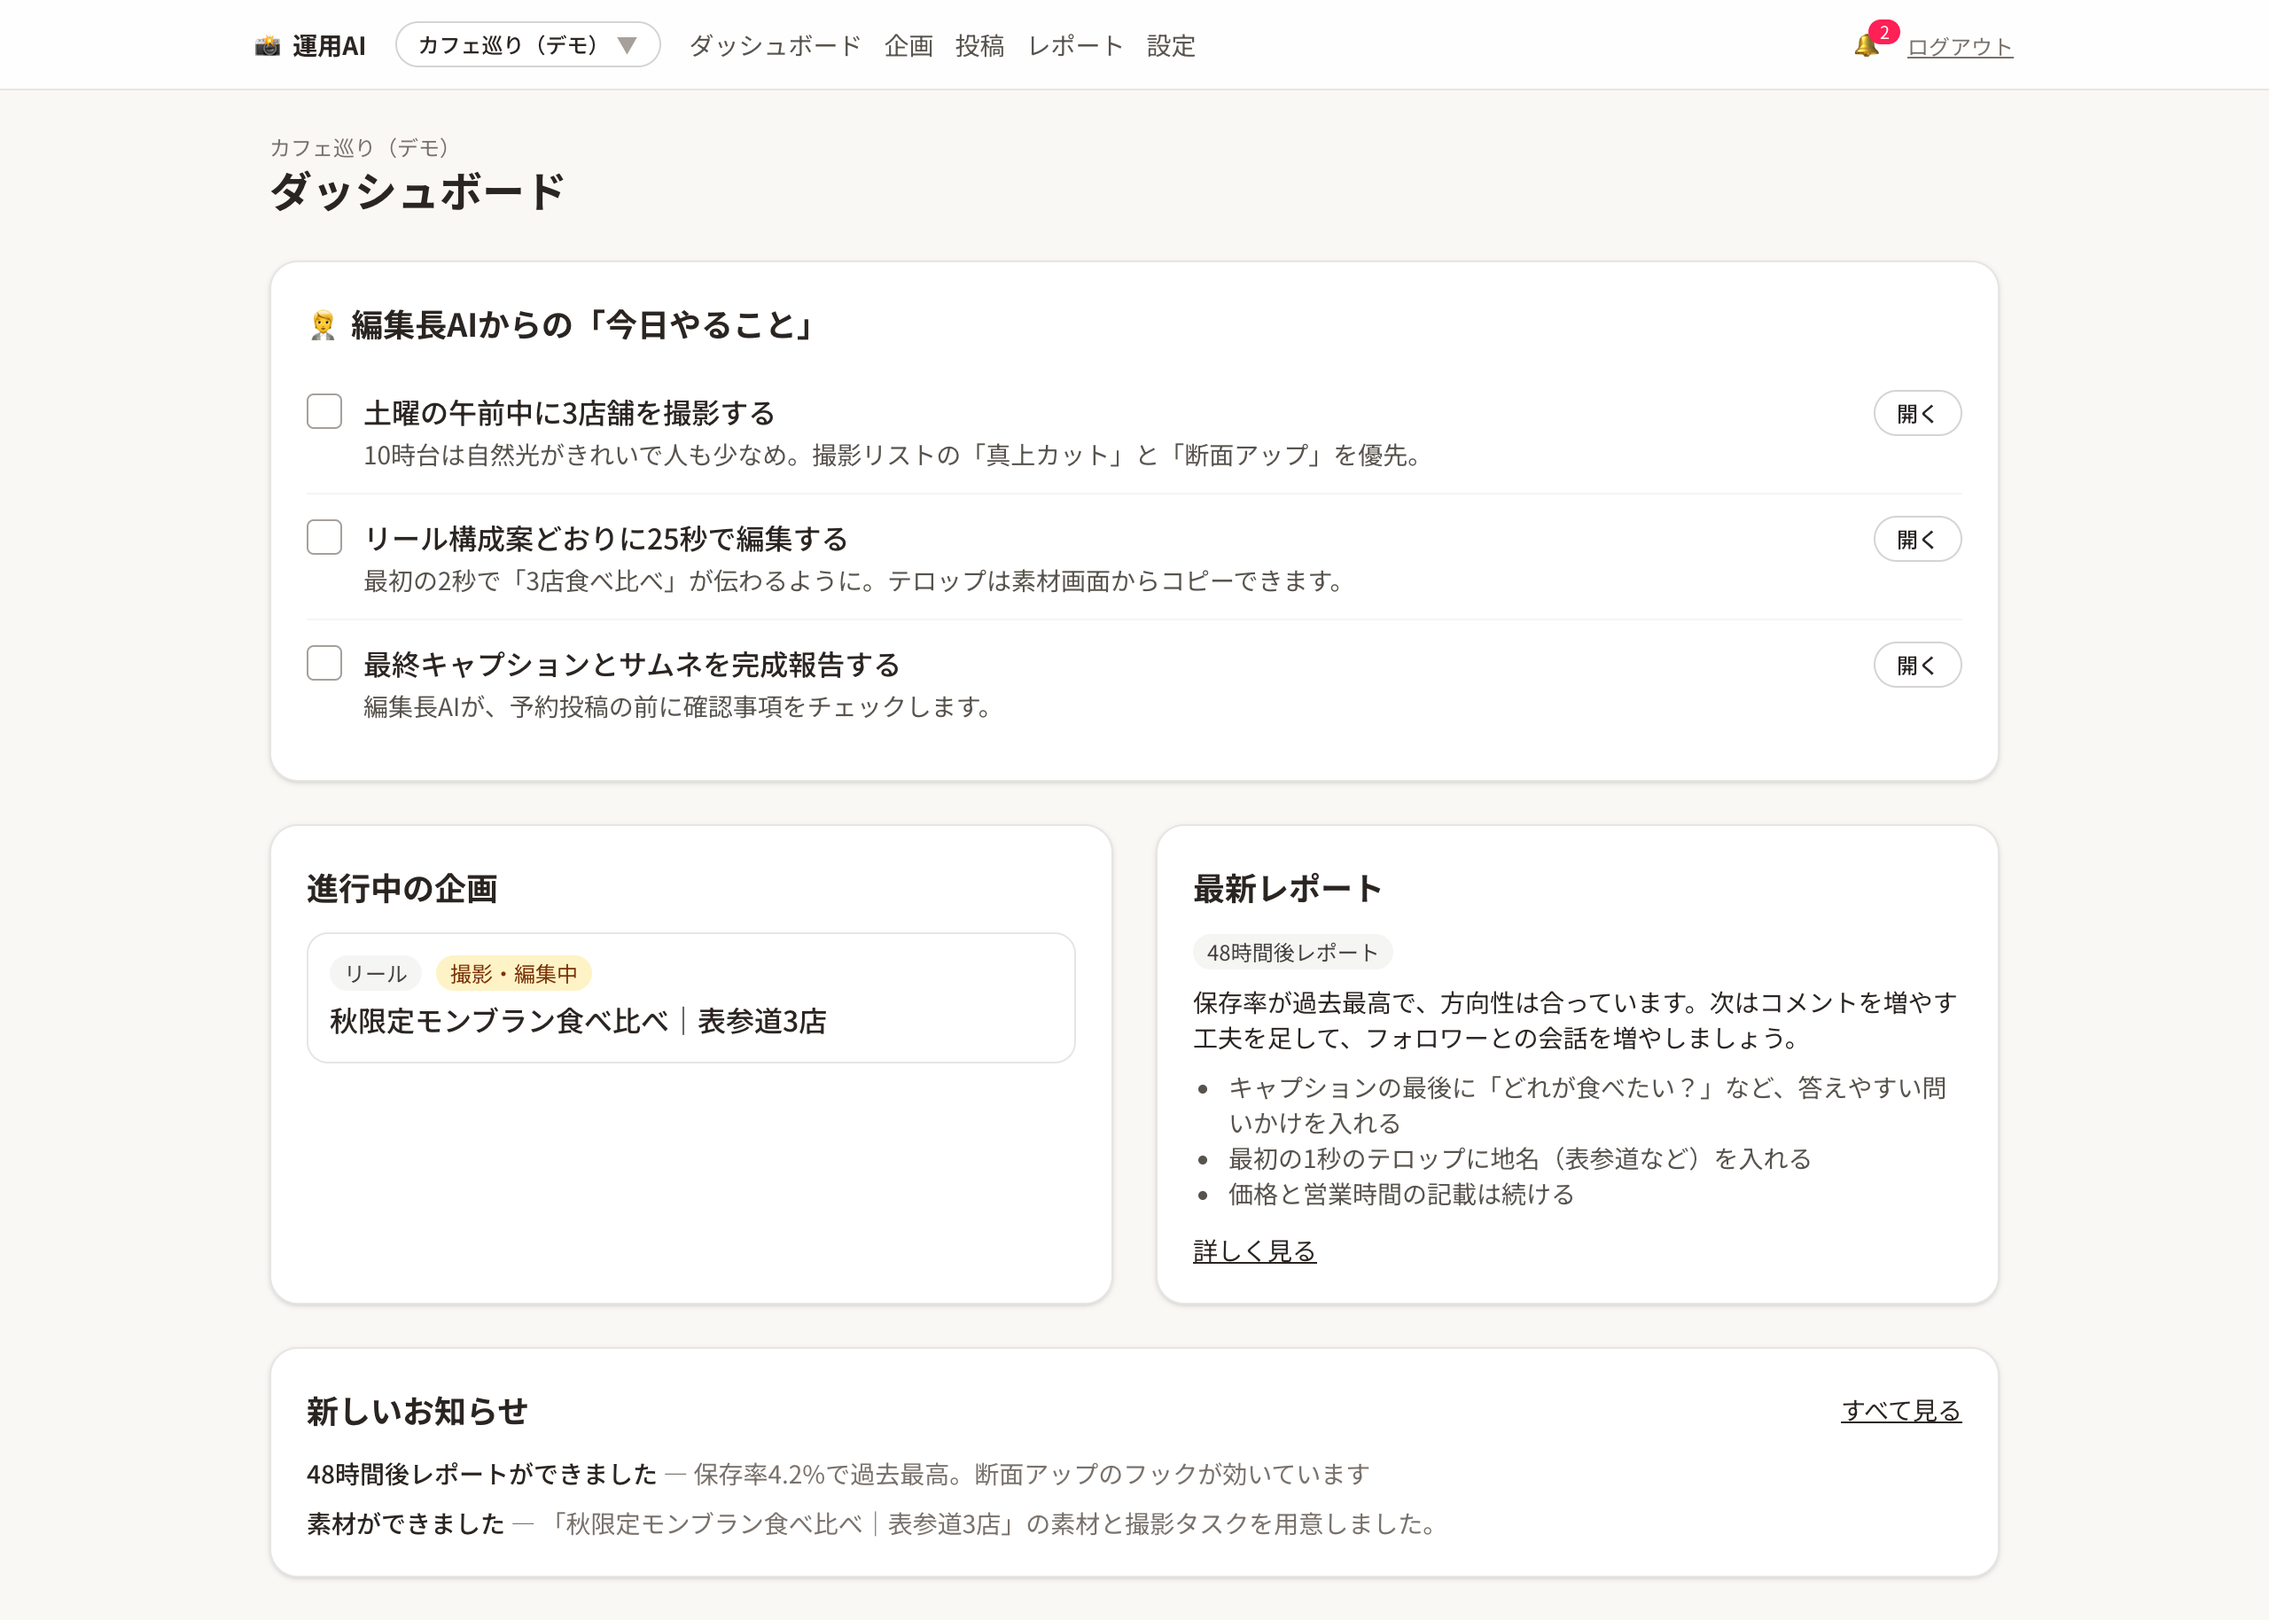
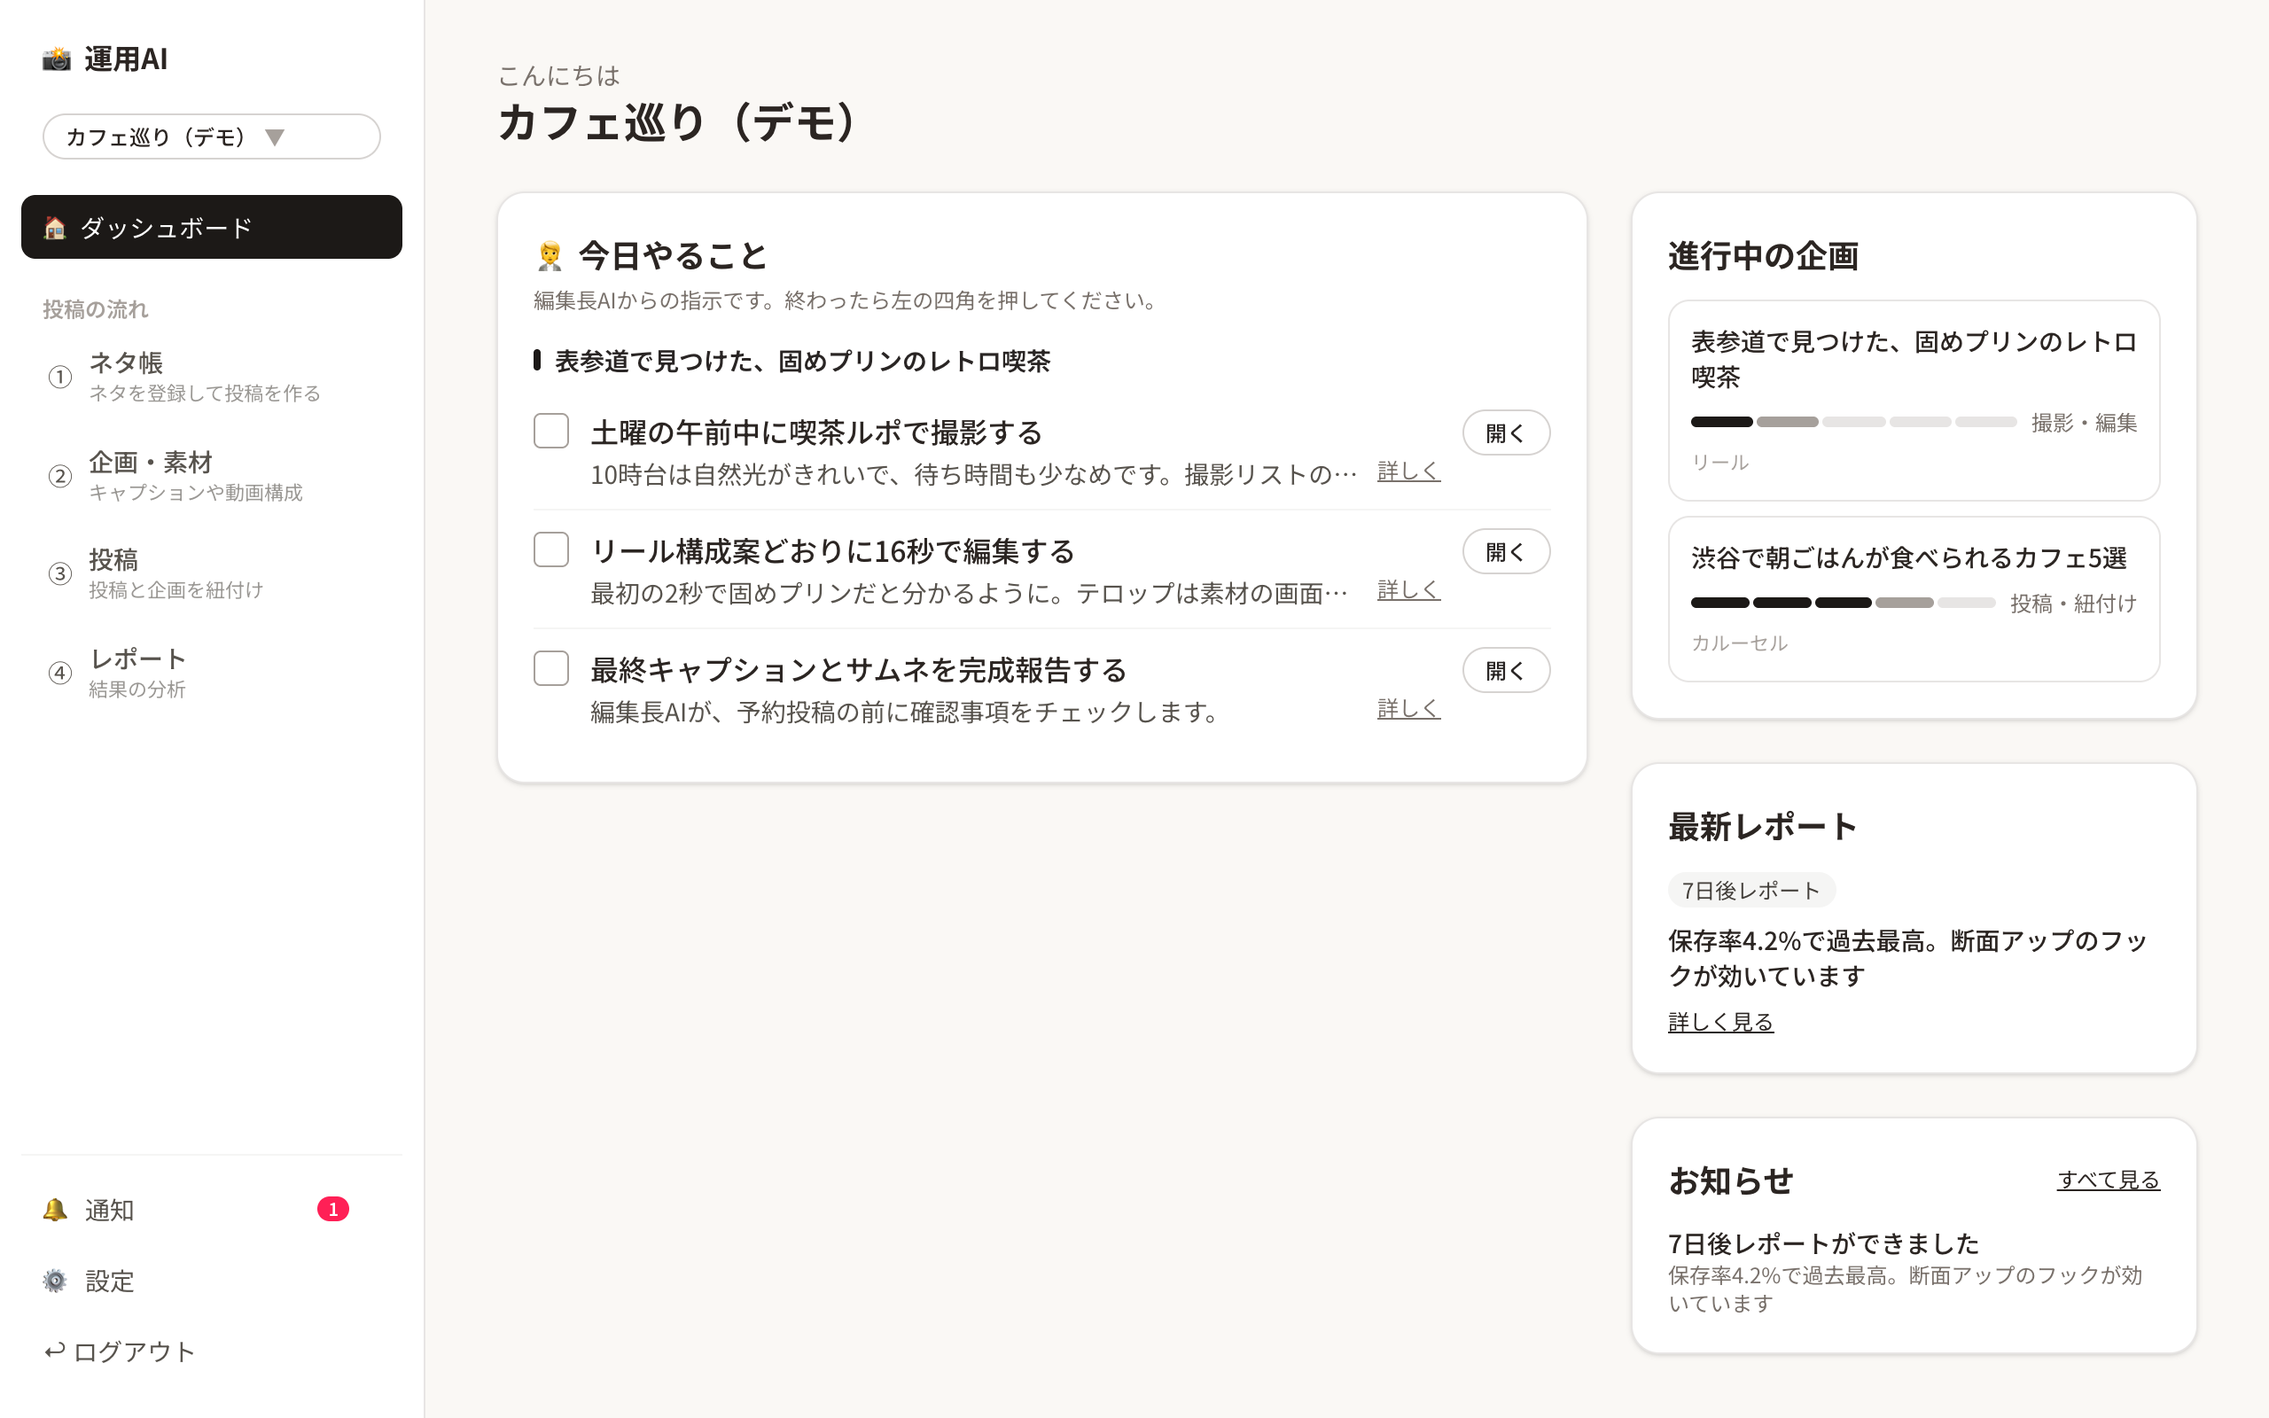
READMEのスクショを新しい画面で撮り直し、説明を今の機能に合わせる。スマホのログアウトが折り返す不具合を直す

diff --git a/src/components/Sidebar.tsx b/src/components/Sidebar.tsx
@@ -69,7 +69,7 @@ export function Sidebar({ account, accounts, unread }: Props) {
             🔔<Badge count={unread} />
           </NavLink>
           <form action="/auth/signout" method="post">
-            <SubmitButton className="flex items-center gap-1 text-xs text-stone-500 underline">ログアウト</SubmitButton>
+            <SubmitButton className="flex shrink-0 items-center gap-1 whitespace-nowrap text-xs text-stone-500 underline">ログアウト</SubmitButton>
           </form>
         </div>
         <nav className="flex gap-4 overflow-x-auto whitespace-nowrap px-4 pb-3 text-sm text-stone-600">

diff --git a/README.md b/README.md
@@ -1,21 +1,26 @@
 # 📸 Instagram運用AI
 
-役割を分けた **6つのAIエージェント（編集長・リサーチ・企画・投稿作成・動画構成・分析）** が、Instagram運用の「考える作業」を引き受けるWebアプリです。
-人間は **撮影・編集・投稿** に集中し、「企画 → 素材作成 → 投稿 → 分析 → 改善提案」のサイクルを毎回データに基づいて回せます。
+役割を分けた **5つのAIエージェント（編集長・企画・投稿作成・動画構成・分析）** が、Instagram運用の「考える作業」を引き受けるWebアプリです。
+人間は **お店に行ってネタを集め、撮影・編集・投稿** することに集中し、「ネタ → 素材作成 → 投稿 → 分析 → 次のネタの提案」のサイクルを毎回データに基づいて回せます。
 
 > 個人のグルメアカウント・旅行vlogアカウントの運用のために開発しています。
 
 ## スクリーンショット
 
-| ダッシュボード | 企画選択 |
+| ダッシュボード | ① ネタ帳 |
 | --- | --- |
-| ![ダッシュボード：編集長AIからの「今日やること」](docs/screenshots/dashboard.png) | ![企画選択：AIが提案した企画案3件](docs/screenshots/plans.png) |
-| 編集長AIが「今日やること」を具体的に指示 | リサーチ・競合分析・過去の改善案から企画案を3件提案 |
+| ![ダッシュボード：今日やることと進行中の企画](docs/screenshots/dashboard.png) | ![ネタ帳：登録したネタとAIからの提案](docs/screenshots/ideas.png) |
+| 編集長AIの「今日やること」を企画ごとに表示。進行中の企画は進み具合のバーで分かる | 行ったお店の事実をメモし、「このネタで投稿を作る」で投稿づくりを開始。分析をもとにAIが次のネタとアドバイスを提案 |
 
-| 投稿素材 | 分析レポート |
+| ② 企画一覧 | ② 投稿素材 |
 | --- | --- |
-| ![投稿素材：キャプション・ハッシュタグなど](docs/screenshots/materials.png) | ![分析レポート：改善案と次の提案](docs/screenshots/report.png) |
-| キャプション・ハッシュタグ・BGM候補・リール構成・テロップを生成。編集・再生成・コピーが可能 | 投稿48時間後・7日後・毎週、分析AIと編集長AIが改善案をまとめる |
+| ![企画一覧：進行中と投稿済みのタブ](docs/screenshots/plans.png) | ![投稿素材：キャプション・ハッシュタグなどをタブで切り替え](docs/screenshots/materials.png) |
+| 進行中・投稿済みをタブで分け、段階ごとの次の操作へ進める | キャプション・ハッシュタグ・リール構成・テロップ・BGMをタブで切り替え。編集・再生成・コピーが可能 |
+
+| ③ 投稿 | ④ 分析レポート |
+| --- | --- |
+| ![投稿：数値と企画との紐付け](docs/screenshots/posts.png) | ![分析レポート：良かった点・課題・改善案](docs/screenshots/report.png) |
+| Instagramから取得した投稿の数値を表示し、企画との紐付けを確定 | 投稿7日後・毎週、分析AIと編集長AIが「良かった点・課題・改善案」をまとめる |
 
 <p align="center">
   <img src="docs/screenshots/mobile.png" alt="スマホ表示" width="280"><br>
@@ -29,12 +34,13 @@
 | 機能 | 内容 |
 | --- | --- |
 | AIヒアリング | チャットでターゲット・地域・世界観などを聞き取り、「アカウント方針」として保存。すべてのAIがこの方針に沿って動く |
-| 企画提案 | リサーチAIが季節ネタ・トレンドを調べ、企画AIが投稿種類（リール／カルーセル／画像）付きで3案を提案 |
-| 投稿素材の生成 | キャプション、ハッシュタグ（大・中・小規模）、BGM候補（Instagram内音源／著作権フリーを区別）、秒単位のリール構成、撮影リスト、テロップ |
+| ネタ帳から投稿づくり | 行ったお店・撮った写真・感想を「ネタ」として登録。ネタを選ぶと、企画AIが分析の結果も読んで企画を作り、そのまま投稿素材まで作成 |
+| AIからの提案 | 競合分析と投稿レポートをもとに、次に撮りに行くと伸びそうなネタと、登録したネタへのアドバイスを提案（毎週月曜に自動更新） |
+| 投稿素材の生成 | ジャンル別のテンプレートに沿ったキャプション、ハッシュタグ（大・中・小規模）、BGM候補（Instagram内音源／著作権フリーを区別）、秒単位のリール構成、撮影リスト、テロップ |
 | 完成報告チェック | 最終キャプションとサムネ画像を送ると、編集長AIが画像も見て企画との整合をチェック |
 | Instagram連携 | 投稿・インサイトを毎日自動取得。新しい投稿を完成報告のキャプションと照合して、企画との紐付け候補を提示 |
 | 競合分析 | 競合アカウントの投稿を種類別に集計し、ジャンルに有効な投稿種類と頻度を分析 |
-| 自動レポート | 投稿48時間後・7日後・毎週月曜にレポートを自動作成し、アプリ内とメールで通知 |
+| 自動レポート | 投稿7日後と毎週月曜にレポートを自動作成し、アプリ内とメールで通知（週次は、数字がそろった投稿7〜14日後のものを比較） |
 | スクショ読み取り | Instagram連携が使えない時の保険として、インサイト画面のスクショから数値を読み取る |
 | 複数アカウント | 1つのログインで、ジャンルの違う複数アカウントを切り替えて運用 |
 
@@ -45,7 +51,7 @@
 | フロントエンド・サーバー | [Next.js 16](https://nextjs.org/)（App Router・Server Actions）、React 19、TypeScript |
 | スタイリング | Tailwind CSS v4 |
 | 認証・DB・ファイル保存 | [Supabase](https://supabase.com/)（Google ログイン、PostgreSQL、行レベルセキュリティ、Storage） |
-| AI | [Gemini API](https://ai.google.dev/)（`@google/genai`。構造化出力・画像読み取り・Google検索グラウンディング） |
+| AI | [Gemini API](https://ai.google.dev/)（`@google/genai`。構造化出力・画像読み取り） |
 | SNSデータ | Instagram API with Facebook Login（Graph API v25.0、Business Discovery） |
 | メール通知 | [Resend](https://resend.com/) |
 | ホスティング・定期実行 | [Vercel](https://vercel.com/)（Hobby、Cron Jobs） |
@@ -57,20 +63,23 @@
 - **構造化出力**：Geminiの JSON Schema 指定で、AIの出力をそのまま画面とDBで扱える形にしている
 - **マルチユーザー前提のデータ設計**：全テーブルに `user_id` を持たせ、RLSで本人のデータだけ読み書きできるようにしている
 - **秘密情報はサーバー側だけ**：InstagramのトークンはAES-256-GCMで暗号化して保存し、ブラウザに出さない
-- **止まりにくくする工夫**：AIの混雑時は自動リトライ＋軽量モデルへの切り替え、Google検索が使えない時は検索なしで続行、定期実行の失敗は記録して翌日に再実行
+- **止まりにくくする工夫**：AIの混雑時は自動リトライ＋軽量モデルへの切り替え、定期実行の失敗は記録して翌日に再実行
+- **想像で書かせない**：ネタ帳に書いた事実だけをもとにキャプションを作り、分からない情報は【要確認】として残す
 
 ### AIエージェントと運用サイクル
 
 ```
                 ┌──────────── 編集長AI（司令塔） ────────────┐
                 │                                              │
- リサーチAI → 企画AI → 【人間が採用】 → 投稿作成AI ＋ 動画構成AI
+ 【人間がネタ帳に登録】 → 企画AI → 投稿作成AI ＋ 動画構成AI
                                               ↓
                           【人間が撮影・編集】 → 完成報告 → 編集長AIがチェック
                                               ↓
                           【人間がInstagramで投稿】 → 自動取得・紐付け
                                               ↓
-                          分析AI（48時間後・7日後・週次） → 編集長AIが改善案に → 次の企画へ
+                          分析AI（7日後・週次） → 編集長AIが改善案に
+                                              ↓
+                          企画AIが次のネタを提案 → ネタ帳へ
 ```
 
 ## フォルダ構成（主なもの）
